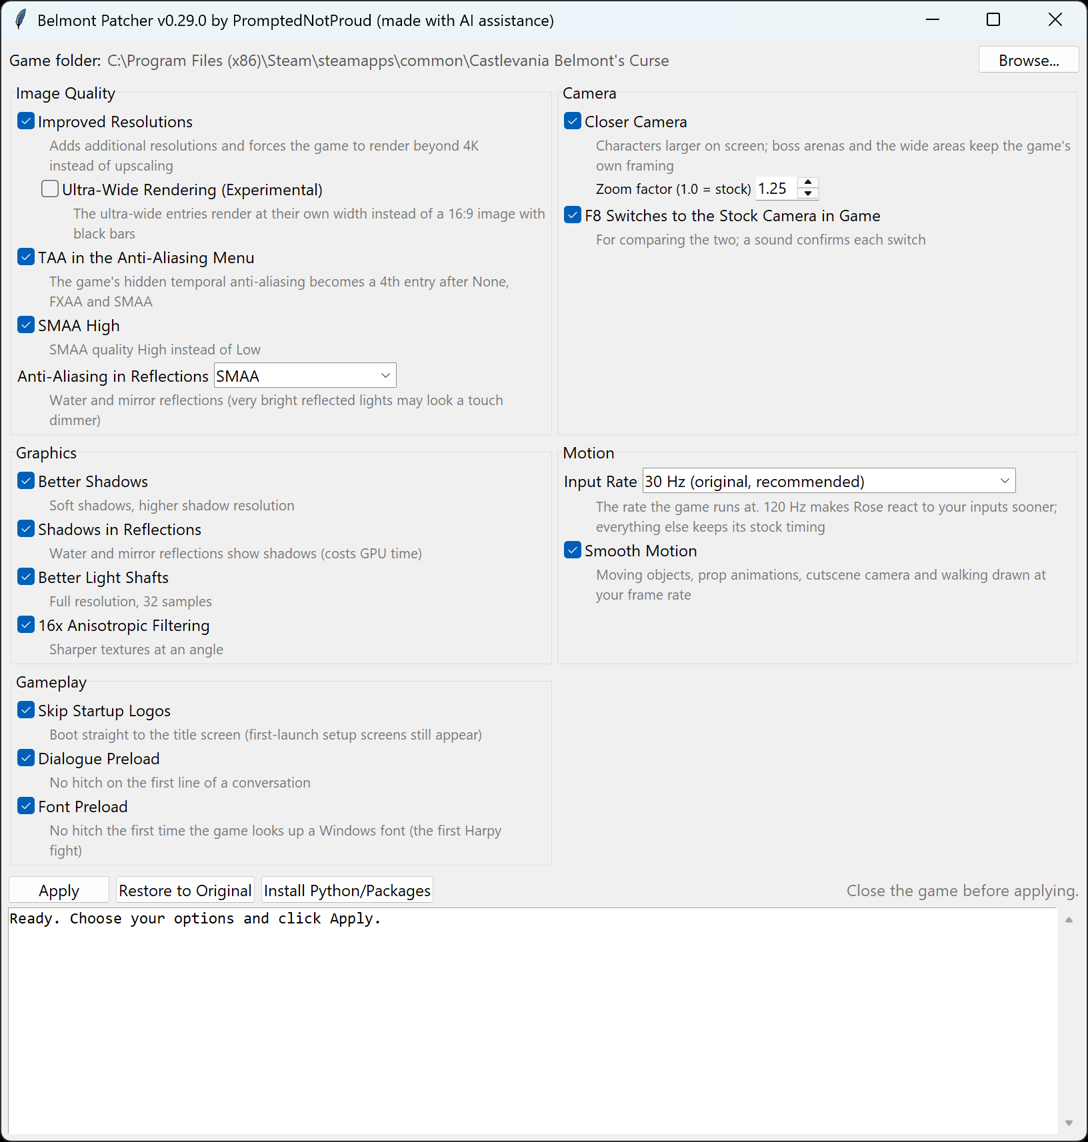
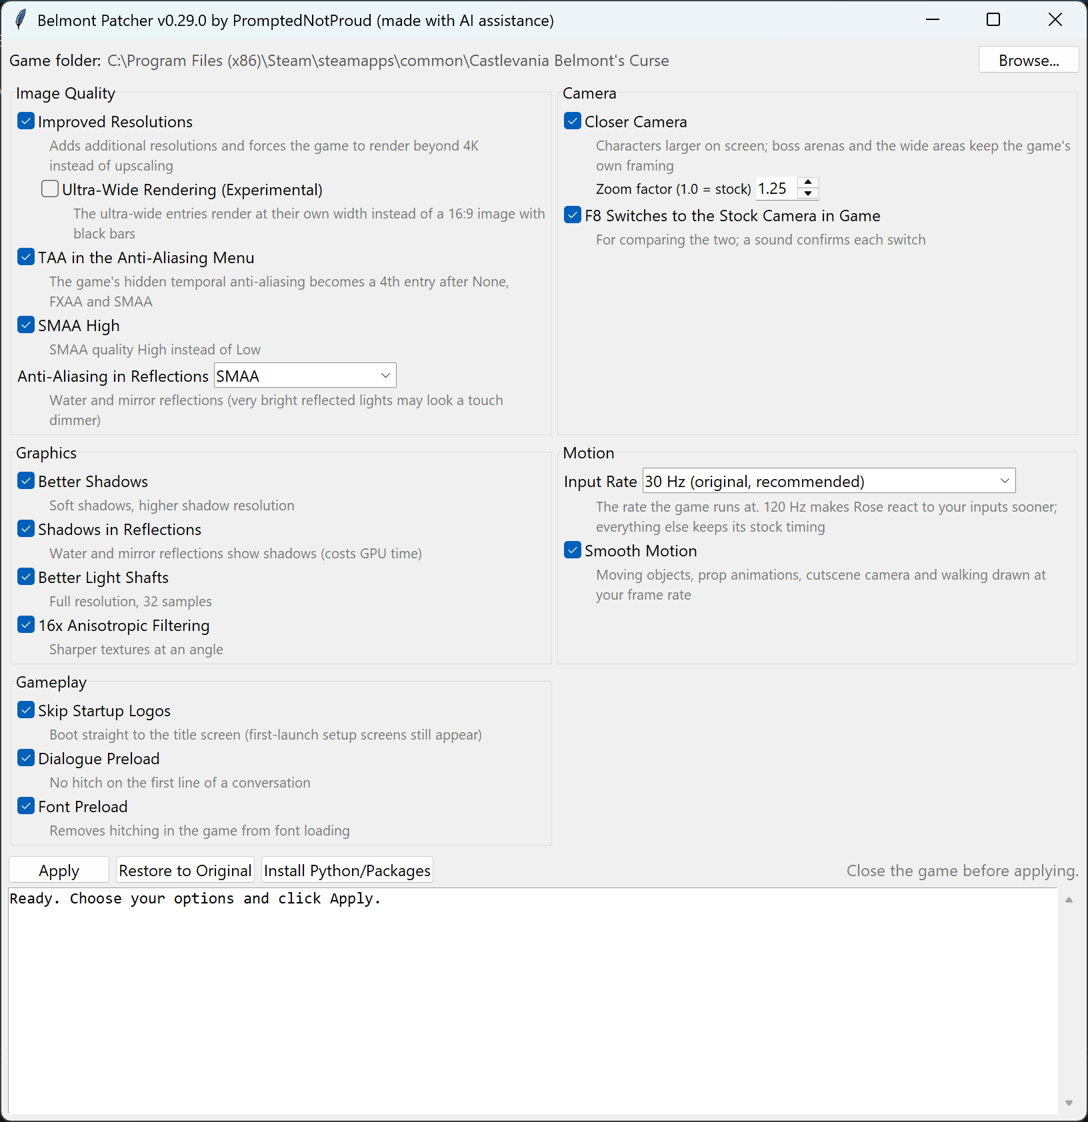
v0.29.0: Font Preload Language

diff --git a/Belmont Patcher/belmont_patcher.py b/Belmont Patcher/belmont_patcher.py
@@ -66,8 +66,8 @@ CONFIG = {
     # gameplay
     'skip_splash':        True,   # boot straight to the title screen: no company logos or startup notices
     'dialogue_preload':   True,   # loads dialogue portraits in the background when a cutscene starts (no hitch on the first line)
-    'font_preload':       True,   # Unity's list of the installed Windows fonts is built while the first room loads, not in the
-                                  #   middle of gameplay the first time a text needs a system font (a hitch in the first Harpy fight)
+    'font_preload':       True,   # removes hitching in the game from font loading (Unity's list of the installed Windows fonts
+                                  #   is built while the first room loads instead of during gameplay)
 }
 REFLECTION_AA_CHOICES = ('off', 'smaa', 'taa')
 
@@ -1155,7 +1155,7 @@ GUI_GROUPS = [
     ("Gameplay", [
         ('skip_splash', "Skip Startup Logos", "Boot straight to the title screen (first-launch setup screens still appear)"),
         ('dialogue_preload', "Dialogue Preload", "No hitch on the first line of a conversation"),
-        ('font_preload', "Font Preload", "No hitch the first time the game looks up a Windows font (the first Harpy fight)"),
+        ('font_preload', "Font Preload", "Removes hitching in the game from font loading"),
     ]),
 ]
 GUI_COLUMNS = [["Image Quality", "Graphics", "Gameplay"], ["Camera", "Motion"]]

diff --git a/README.md b/README.md
@@ -6,8 +6,7 @@ By PromptedNotProud (made with AI assistance)
 <!-- Your own disclosure paragraph goes here. -->
 
 The game keeps playing exactly as it does now (same physics, same controls, same timing), but it is drawn smoothly at your
-monitor's frame rate, looks sharper, and no longer freezes on the first line of each conversation or when the first
-Harpy appears. There is also an
+monitor's frame rate, looks sharper, and no longer freezes on the first line of each conversation or hitches from font loading. There is also an
 optional, experimental 120 Hz input mode that makes Rose react to your inputs sooner.
 
 **[Download the latest release](../../releases/latest)**
@@ -44,8 +43,7 @@ optional, experimental 120 Hz input mode that makes Rose react to your inputs so
 **Gameplay**
 - **Skip Startup Logos**: boots straight to the title screen.
 - **Dialogue Preload**: removes the short freeze on the first line of every conversation.
-- **Font Preload**: removes the hitch when the first Harpy appears (Unity was reading every font installed in Windows at
-  that moment); the font list is now built once while the first room loads.
+- **Font Preload**: removes hitching in the game from font loading.
 
 ## Install
 
